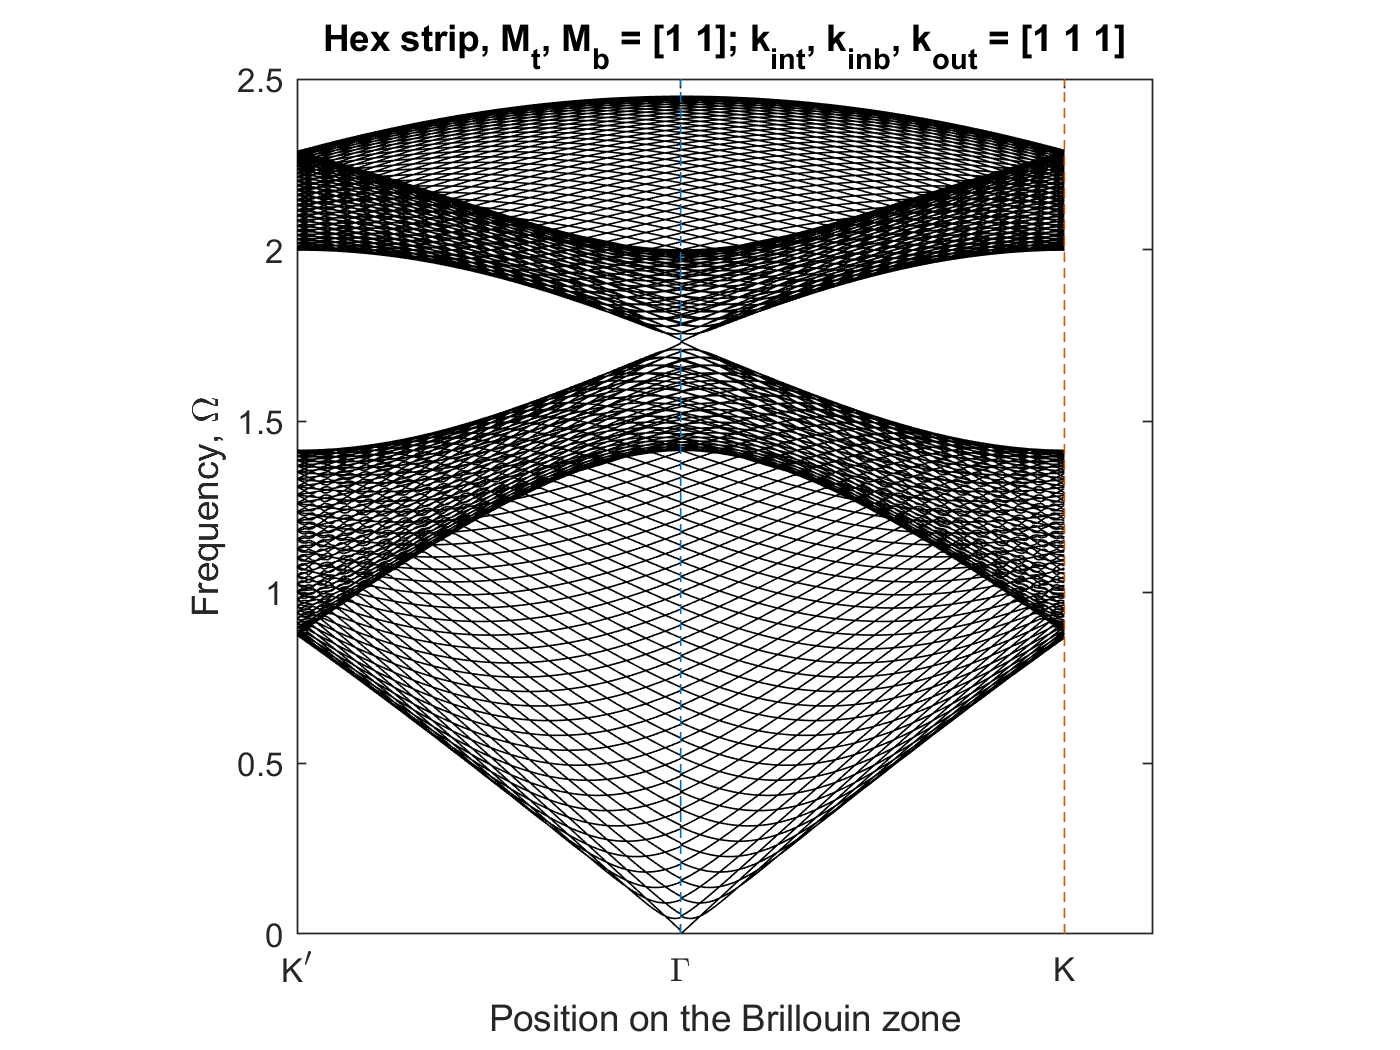
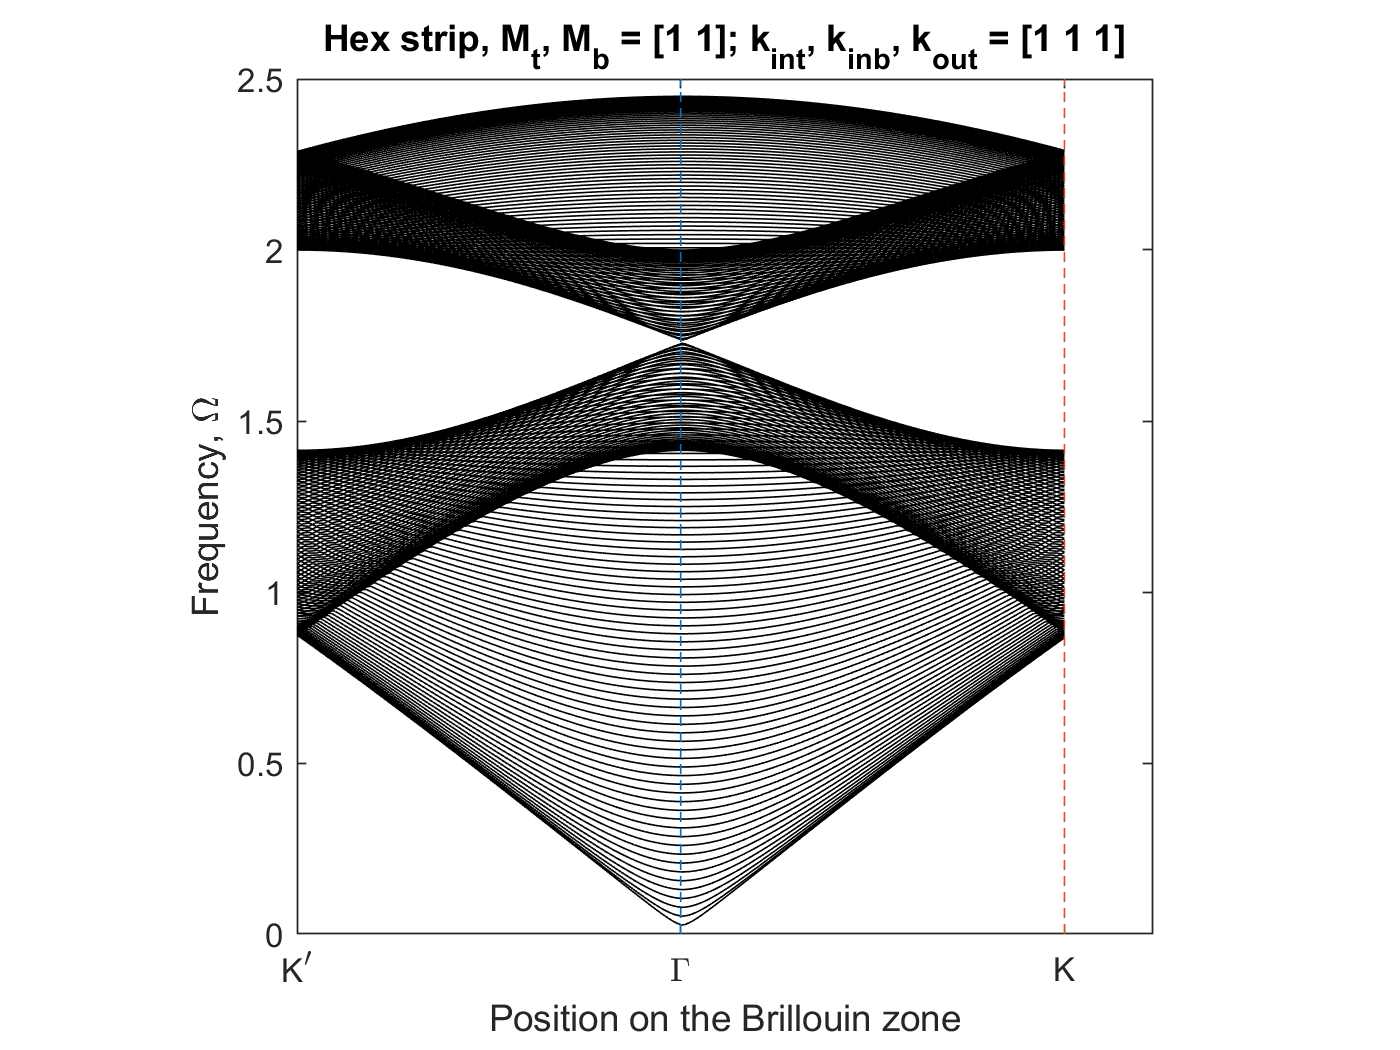
Added image of comparing thickness of boundary; redone all images to be with rigid boundary condition

Changed region(s): [[0.215, 0.0914, 0.7679, 0.8838]]

diff --git a/project/perturbed.tex b/project/perturbed.tex
@@ -31,9 +31,6 @@ dispersion relations, it is seen as gaps in the frequency axis where no line
 is present. An example is shown in Figure~\ref{fig:bandgapex}. 
 %TODO: What is a bandgap?
 
-\section{Band gap inversion}
-%TODO: Decide if want to include
-
 \section{2d bulk hexagonal perturbation}
 Due to the many symmetries of the hexagonal lattice, there are many different
 ways for us to perturb its structure and break its symmetry. These all lead to
@@ -103,7 +100,9 @@ the kagome lattice in Chapter \ref{kagomeperturb}.
   semi-infinite lattice made from an infinite number of strips connected
   side-by-side. Each strip is composed of 2N cells, with the top half of cells
   above the boundary (green) possessing a set of properties and the bottom half
-  possessing a separate set of properties.}
+  possessing a separate set of properties. Note the the boundary conditions at
+  the top and bottom, i.e. the cells at the top and bottom edges have no
+  connections outside the lattice.}
 \end{figure}
 
 Now we assemble $2N$ hexagonal cells together into a strip and form a
@@ -124,13 +123,17 @@ connected to $M_6$ displaced by some phase shift anymore, but is connected to
 $M_6$ in the cell below. Specifically we get, 
 %TODO: Add equations for 2,5 and 3,6
 
-Also we impose the periodic boundary condition at the top and bottom edges by
-coupling the top and bottom cells together across the edge. This essentially
-gives us an infinite lattice, which allows us to use all the theorems we have
-been using before, and if we take $N$ to be large enough, the exponential decay
-of the wavefunctions across the strip is great enough to ensure our solution
-approximates the real semi-infinite lattice well enough. Specifically, we
-impose
+Also, we explicitly choose the boundary condition where the top and bottom
+cells have no connections outside the lattice. This is similar to having our
+top and bottom edges connected to a \textit{rigid wall} as our waves are unable
+to leave the lattice from those two edges. This is important to note a waves
+travelling towards those two edges will be reflected back into the lattice
+which we can see in Figure~\ref{fig:reflect}.
+%TODO: Generate scattering with reflection along edge
+
+\textit{Note:} Another sensible periodic boundary condition which we could have
+imposed at the top and bottom edges is by coupling the top and bottom cells
+together across the edge. Specifically, we could impose
 %TODO: Fix blabber on periodic boundary condition
 
 \begin{align}
@@ -139,14 +142,28 @@ impose
   \matr{A}_{6(2N-1)+2,5}&=-\tilde{k}e^{i\Delta_1} 
 \end{align}
 
-With those, we can finally form the eigen-problem
+This essentially gives us an infinite lattice going
+from top to bottom, with top and bottom materials alternating. Therefore
+essentially, the significant difference which we will see between the two
+boundary conditions is that one models the top and bottom edge as edges between
+our materials and a rigid wall, and the other models the top and bottom edge as
+edges between our two materials. However, we will see later on that this will
+not matter too much for our scattering simulations as we will be exciting waves
+of frequencies in our bandgaps. So if we take $N$ to be large enough, the
+exponential decay of the wavefunctions across the strip is great enough to
+ensure our wave does not propagate to the top and bottom edges anyways.
+
+With that, we can finally form the eigen-problem
 
 \begin{align}
   \left[\matr{A}\left(\kappa_{x},\kappa_{y}\right)-\matr{\Omega}\matr{M}\right]\vec{y}=\vec{0}
 \label{eq:hexstripeig}
 \end{align}
 
-where $\matr{\Omega}=\diag\left(\left\{\Omega_i^2\right\}\right)$,
+where $\matr{A}$ is a $(2N \times 6) \times (2N \times 6)$ matrix with
+$\matr{A}$ as defined in \eqref{eq:hexeig} repeated along the diagonal and with
+the additional coupling terms added,
+$\matr{\Omega}=\diag\left(\left\{\Omega_i^2\right\}\right)$,
 $\matr{M}_{t}=\diag\left(\left\{M_{i,t}\right\}\right)$,
 $\matr{M}_{b}=\diag\left(\left\{M_{i,b}\right\}\right)$,
 \begin{align}
@@ -198,7 +215,7 @@ reflect it about the vertical at $\Gamma$).
 \centering
 \includegraphics[width=0.8\textwidth]{imgs/hexstrip.png}
 \caption{\label{fig:hexstripdisper} Dispersion relation of the semi-infinite
-  hexagonal lattice with $N=20$ (40 cells in total) with
+  hexagonal lattice with $2N=40$ (40 cells in total) with
   $M_{i,t}=M_{i,b}=k_t=k_b=\tilde{k}=1$.}
 \end{figure}
 
@@ -353,22 +370,24 @@ together into a strip and form a semi-infinite lattice with these strips
 connected left-to-right as shown in Figure~\ref{fig:kagomestripmodel}.
 
 Using the same conventions as the hexagonal strip case and similarly imposing
-periodic boundary conditions at the top and bottom edge, i.e.
+rigid boundary conditions at the top and bottom edge, we can form the
+eigen-problem
 
-\begin{align}
-  \matr{A}_{1,3(2N-1)+2}&=\matr{A}_{3(2N-1)+2,1}=-\tilde{k} \\
-  \matr{A}_{3,3(2N-1)+2}&=-\tilde{k}e^{-i\Delta_1} \\
-  \matr{A}_{3(2N-1)+2,3}&=-\tilde{k}e^{i\Delta_1} 
-\end{align} 
-
-we form the eigen-problem 
+%\begin{align}
+%  \matr{A}_{1,3(2N-1)+2}&=\matr{A}_{3(2N-1)+2,1}=-\tilde{k} \\
+%  \matr{A}_{3,3(2N-1)+2}&=-\tilde{k}e^{-i\Delta_1} \\
+%  \matr{A}_{3(2N-1)+2,3}&=-\tilde{k}e^{i\Delta_1} 
+%\end{align} 
 
 \begin{align}
   \left[\matr{A}\left(\kappa_{x},\kappa_{y}\right)-\matr{\Omega}\matr{M}\right]\vec{y}=\vec{0}
 \label{eq:kagomestripeig}
 \end{align}
 
-where $\matr{\Omega}=\diag\left(\left\{\Omega_i^2\right\}\right)$,
+where $\matr{A}$ is a $(2N \times 6) \times (2N \times 6)$ matrix with
+$\matr{A}$ as defined in \eqref{eq:kagomeeig} repeated along the diagonal and
+with the additional coupling terms added,
+$\matr{\Omega}=\diag\left(\left\{\Omega_i^2\right\}\right)$,
 $\matr{M}_{t}=\diag\left(\left\{M_{i,t}\right\}\right)$,
 $\matr{M}_{b}=\diag\left(\left\{M_{i,b}\right\}\right)$,
 \begin{align}
@@ -396,16 +415,6 @@ y_3^{(2N)}\\
 \end{array}\right],
 \end{align}
 
-\begin{align}
-  \matr{A}\left(\kappa_{x},\kappa_{y}\right)=\left[
-\begin{array}{ccc}
-2k+2\tilde{k} & -k-\tilde{k}e^{-i\Delta_3} & -k-\tilde{k}e^{i\Delta_1} \\
--k-\tilde{k}e^{i\Delta_3} & 2k+2\tilde{k} & -k-\tilde{k}e^{i\Delta_2} \\
--k-\tilde{k}e^{-i\Delta_1} & -k-\tilde{k}e^{-i\Delta_2} & 2k+2\tilde{k} 
-\end{array}\right]
-\end{align}
-%TODO: Fix A
-
 Solving this with $M_{i,t}=M_{i,b}=k_t=k_b=\tilde{k}=1$ over the irreducible
 Brilloun zone, which is again the same as the hexagonal system, gives us the
 dispersion relation in Figure~\ref{fig:kagomestripdisper}.
@@ -414,7 +423,7 @@ dispersion relation in Figure~\ref{fig:kagomestripdisper}.
 \centering
 \includegraphics[width=0.8\textwidth]{imgs/kagomestrip.png}
 \caption{\label{fig:kagomestripdisper} Dispersion relation of the semi-infinite
-  kagome lattice with $N=40$ (80 cells in total) with
+  kagome lattice with $2N=40$ (40 cells in total) with
   $M_{i,t}=M_{i,b}=k_t=k_b=\tilde{k}=1$.}
 \end{figure}
 

diff --git a/evaluation/evaluation.tex b/evaluation/evaluation.tex
@@ -32,15 +32,62 @@ throughout the lattice.
 
 \item Testing how small each layer of material can be to get a \textit{good
 enough} edge state. So far in our discussions of the strips of cells, we have
-been using strips with a large number of cells (e.g.$2N=40$) because we know
+been using strips with a large number of cells (e.g. $2N=40$) because we know
 that the edge states decay exponentially outwards from the boundary, but this
 may not be possible or cost effective when developing real products. Therefore,
 it is important to study how the number of cells translates to the amount of
 energy lost and how this might lead to unwanted energy elsewhere in the system
 or interference with our edge state along the boundary. An example can be seen
 in Figure~\ref{fig:smallvsbig}.
-%TODO: Add simulation, one with thin layers, one with thick
 \end{itemize}
+
+\begin{figure}
+\centering
+\begin{subfigure}[b]{.5\textwidth}
+  \centering
+  \includegraphics[width=0.7\linewidth]{imgs/svbthickarr.png}
+  \caption{Arrangement of cells with $2N=10$.}
+  \label{fig:sub1}
+\end{subfigure}%
+\begin{subfigure}[b]{.5\textwidth}
+  \centering
+  \includegraphics[width=0.9\linewidth]{imgs/svbthickscat.png}
+  \caption{The plot of $|y_i|$ for each mass in each cell.}
+  \label{fig:sub2}
+\end{subfigure}
+
+\medskip
+\begin{subfigure}[b]{.5\textwidth}
+  \centering
+  \includegraphics[width=0.7\linewidth]{imgs/svbthinarr.png}
+  \caption{Arrangement of cells with $2N=4$.}
+  \label{fig:sub1}
+\end{subfigure}%
+\begin{subfigure}[b]{.5\textwidth}
+  \centering
+  \includegraphics[width=0.9\linewidth]{imgs/svbthinscat.png}
+  \caption{The plot of $|y_i|$ for each mass in each cell.}
+  \label{fig:sub2}
+\end{subfigure}
+
+\medskip
+\begin{subfigure}[b]{.5\textwidth}
+  \centering
+  \includegraphics[width=0.7\linewidth]{imgs/svbthinnerarr.png}
+  \caption{Arrangement of cells with $2N=2$.}
+  \label{fig:sub1}
+\end{subfigure}%
+\begin{subfigure}[b]{.5\textwidth}
+  \centering
+  \includegraphics[width=0.9\linewidth]{imgs/svbthinnerscat.png}
+  \caption{The plot of $|y_i|$ for each mass in each cell.}
+  \label{fig:sub2}
+\end{subfigure}
+\caption{Scattering simulation to show the differences in amplitude and
+  dissipation of energy for hexagonal boundaries of different thicknesses using
+  the cells as defined in Figure~\ref{fig:hexstripMrotated}.}
+\label{fig:smallvsbig}
+\end{figure}
 
 In terms of improving the workflow for the generation of these results for
 other geometries and topologies, we could implement the following:

diff --git a/project/scattering.tex b/project/scattering.tex
@@ -18,7 +18,6 @@ the lattice. As we have discussed before in Chapter \ref{formstrip}, we know
 that there are certain frequencies which are only able to propagate along the
 interface of the strips and not anywhere else in the lattice. These are the
 frequencies which we will be simulating.
-%TODO: Different shape of lattices to bend waves?
 
 \section{Our linear system in physical space}
 Before we can run our scattering simulations, which essentially is solving for
@@ -52,7 +51,7 @@ of cells in Figure~\ref{fig:hexstdfinlattice}.
 
 \begin{figure}
   \centering
-  \includegraphics[width=0.6\linewidth]{imgs/hexstdfinlattice.png}
+  \includegraphics[width=0.5\linewidth]{imgs/hexstdfinlattice.png}
   \caption{Arrangement of hexagonal cells ($2N=20$, $M=40$), with red and blue
     being different materials, and source of excitation at the green masses.}
   \label{fig:hexstdfinlattice}
